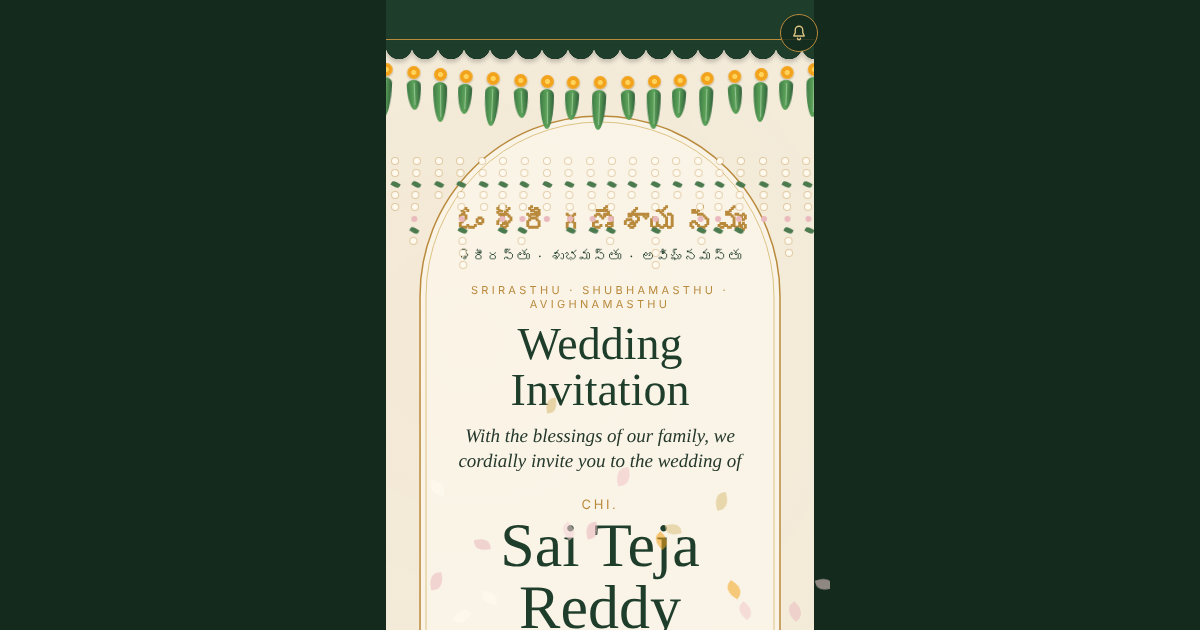
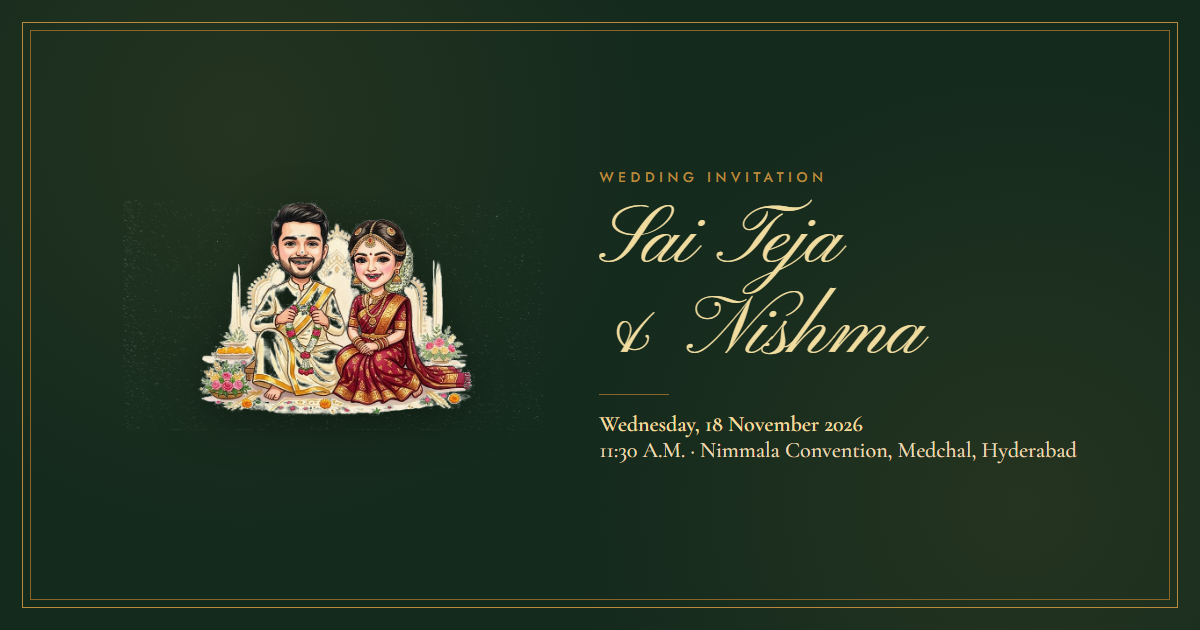
Fix stale/wrong-domain social share preview
- Point og:url, og:image and twitter:image at the live Vercel
  domain (sai-teja-nishma-wedding.vercel.app) instead of the old
  GitHub Pages URL, matching the link that's actually being shared.
- Regenerate og-image.png: the old one was a screenshot from very
  early in development (no floral wreath, no Ganesha, fonts not
  loaded, fallback serif instead of the cursive headings) and no
  longer represented the site. Replace it with a proper 1200x630
  landscape card built from the site's own fonts/colors and the
  couple illustration, since cropping the tall portrait card left
  large empty bars on a widescreen preview.

diff --git a/index.html b/index.html
@@ -6,14 +6,14 @@
 <title>Sai Teja &amp; Nishma Wedding Invitation</title>
 <meta name="description" content="You are cordially invited to the wedding of Sai Teja Reddy and Nishma Reddy on Wednesday, 18 November 2026 at Nimmala Convention, Medchal, Hyderabad.">
 <meta property="og:type" content="website">
-<meta property="og:url" content="https://sharathsai1606.github.io/sai-teja-nishma-wedding/">
+<meta property="og:url" content="https://sai-teja-nishma-wedding.vercel.app/">
 <meta property="og:title" content="Sai Teja &amp; Nishma - Wedding Invitation">
 <meta property="og:description" content="Wednesday, 18 November 2026 · 11:30 A.M. · Nimmala Convention, Medchal, Hyderabad">
-<meta property="og:image" content="https://sharathsai1606.github.io/sai-teja-nishma-wedding/og-image.png">
+<meta property="og:image" content="https://sai-teja-nishma-wedding.vercel.app/og-image.png">
 <meta name="twitter:card" content="summary_large_image">
 <meta name="twitter:title" content="Sai Teja &amp; Nishma - Wedding Invitation">
 <meta name="twitter:description" content="Wednesday, 18 November 2026 · 11:30 A.M. · Nimmala Convention, Medchal, Hyderabad">
-<meta name="twitter:image" content="https://sharathsai1606.github.io/sai-teja-nishma-wedding/og-image.png">
+<meta name="twitter:image" content="https://sai-teja-nishma-wedding.vercel.app/og-image.png">
 <meta name="theme-color" content="#1f3d2b">
 <link rel="icon" href="favicon.svg" type="image/svg+xml">
 
